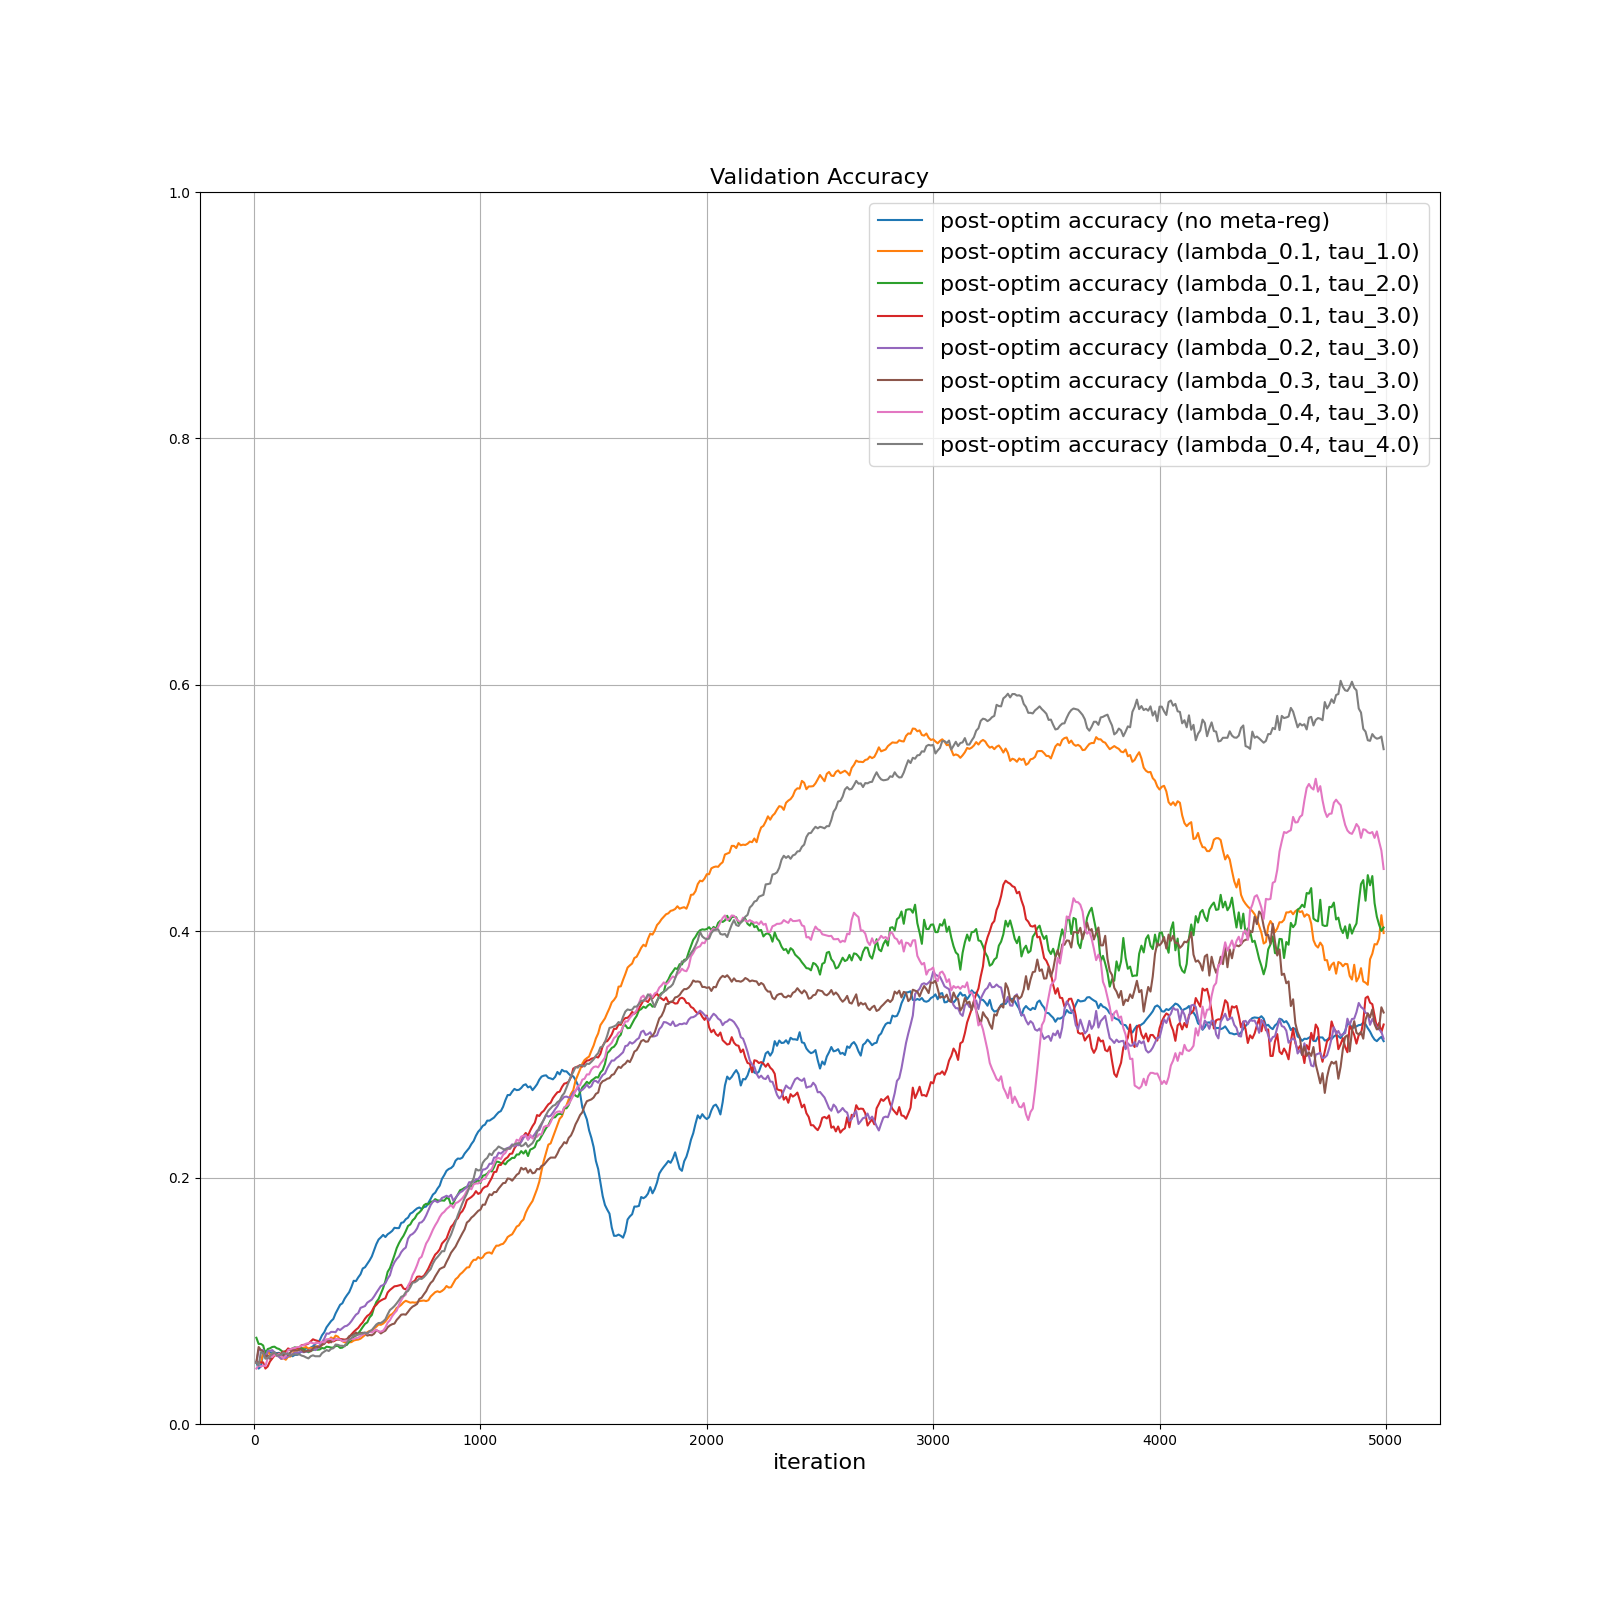
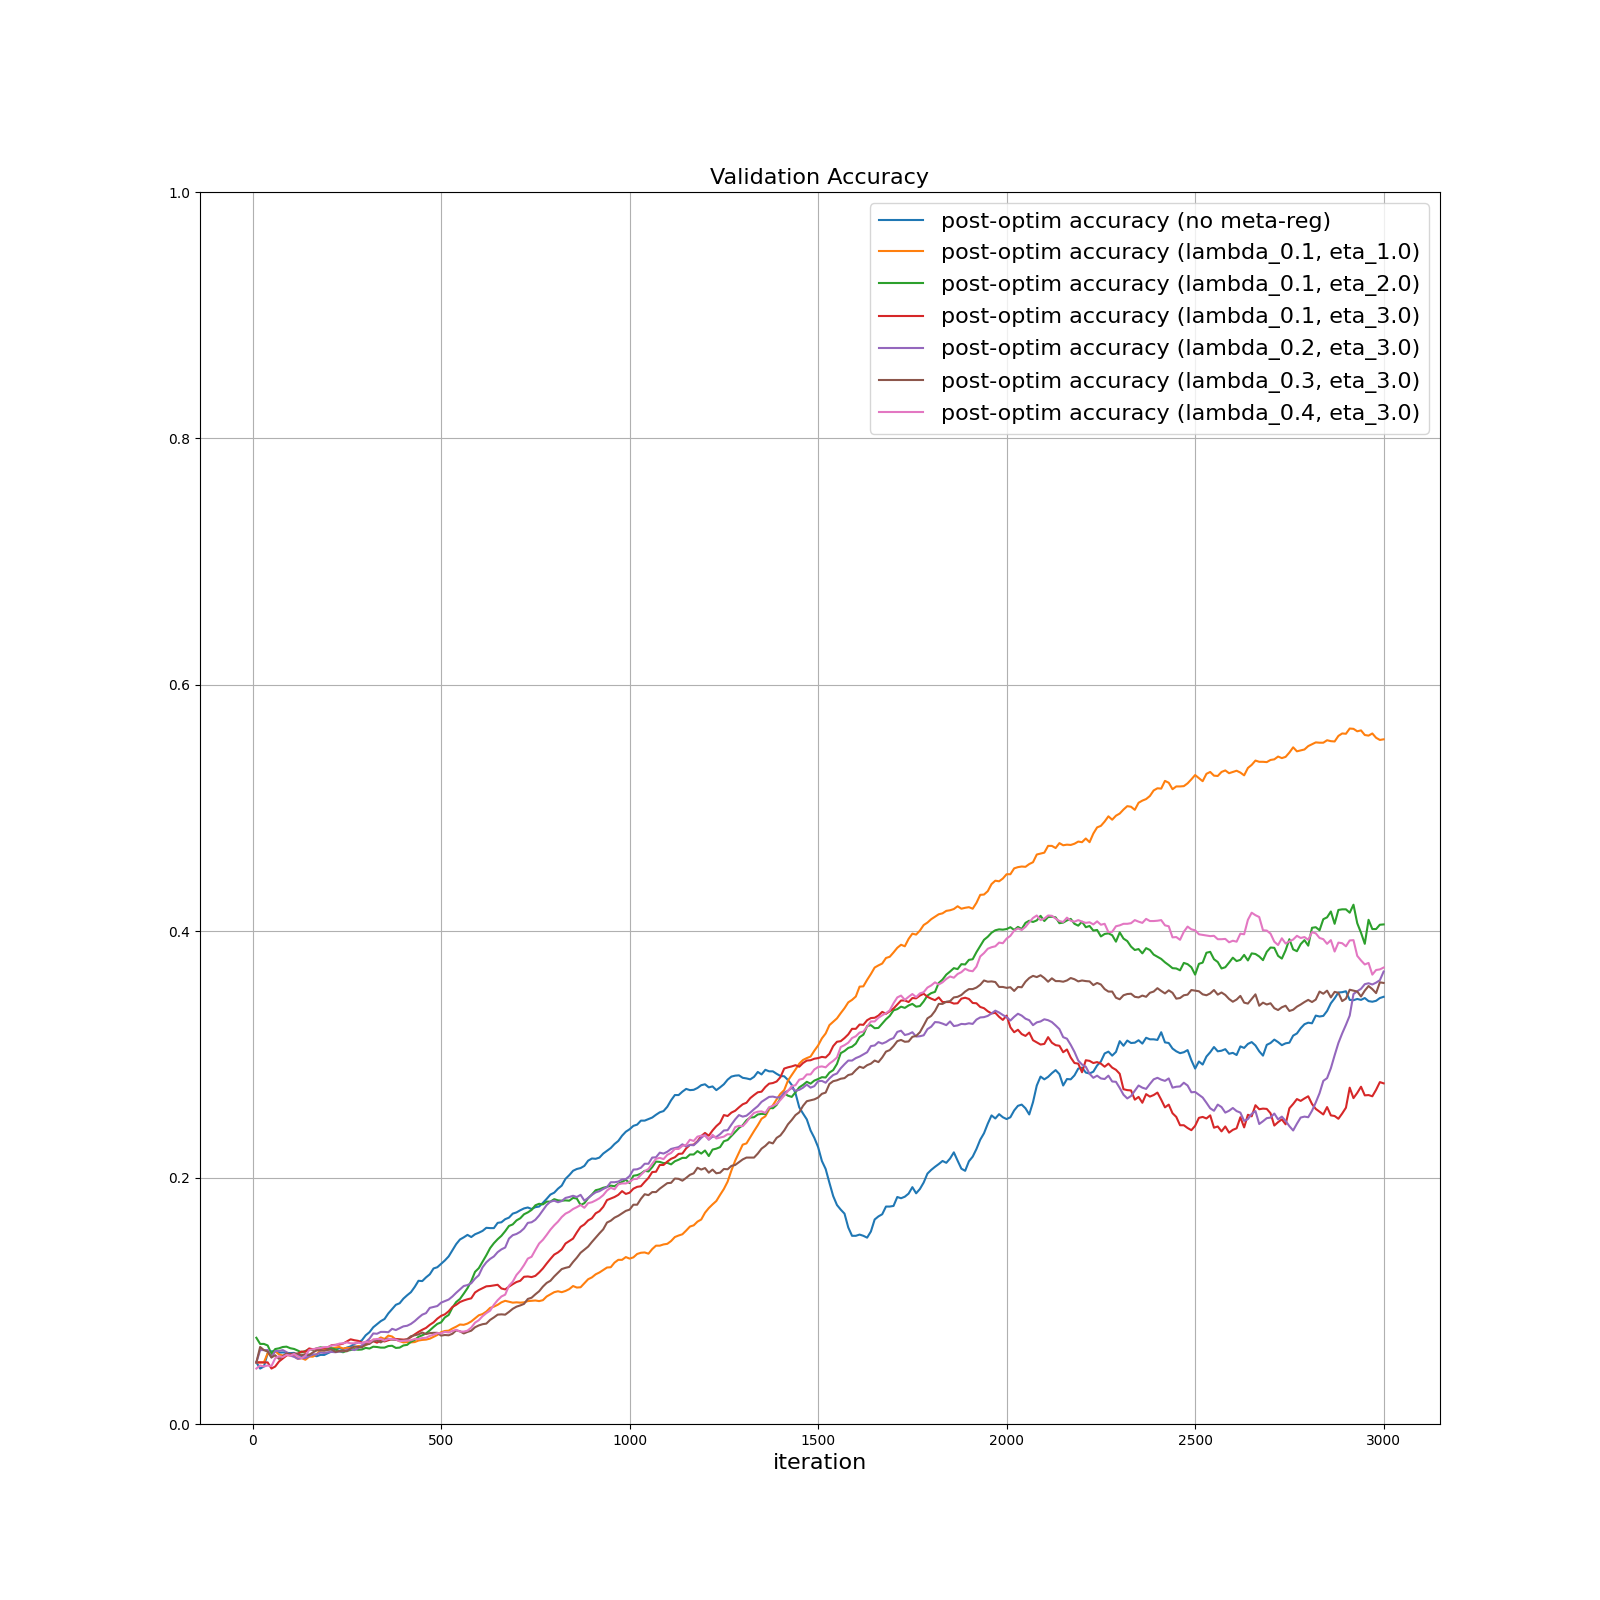
change tau to eta

diff --git a/src/plotComparisions.py b/src/plotComparisions.py
@@ -8,27 +8,25 @@ from src.utils import moving_average, parse_args
 if __name__ == '__main__':
 
     # number of iterations to plot
-    n_iterations = 5000
+    n_iterations = 3000
     dataset = 'omniglot'
     plotdir = 'plots'
     
-    csv_files = ['logs/cls_20.mbs_10.k_shot_1.inner_numstep_1.meta_lr_0.0025.inner_updatelr_0.04.learn_inner_update_lr_False.dataset_omniglot.mutual_exclusive_False.metareg_False.lambda_0.1.tau_1.0.csv',
-                 'logs/cls_20.mbs_10.k_shot_1.inner_numstep_1.meta_lr_0.0025.inner_updatelr_0.04.learn_inner_update_lr_False.dataset_omniglot.mutual_exclusive_False.metareg_True.lambda_0.1.tau_1.0.csv',
-                 'logs/cls_20.mbs_10.k_shot_1.inner_numstep_1.meta_lr_0.0025.inner_updatelr_0.04.learn_inner_update_lr_False.dataset_omniglot.mutual_exclusive_False.metareg_True.lambda_0.1.tau_2.0.csv',
-                 'logs/cls_20.mbs_10.k_shot_1.inner_numstep_1.meta_lr_0.0025.inner_updatelr_0.04.learn_inner_update_lr_False.dataset_omniglot.mutual_exclusive_False.metareg_True.lambda_0.1.tau_3.0.csv',
-                 'logs/cls_20.mbs_10.k_shot_1.inner_numstep_1.meta_lr_0.0025.inner_updatelr_0.04.learn_inner_update_lr_False.dataset_omniglot.mutual_exclusive_False.metareg_True.lambda_0.2.tau_3.0.csv',
-                 'logs/cls_20.mbs_10.k_shot_1.inner_numstep_1.meta_lr_0.0025.inner_updatelr_0.04.learn_inner_update_lr_False.dataset_omniglot.mutual_exclusive_False.metareg_True.lambda_0.3.tau_3.0.csv',
-                 'logs/cls_20.mbs_10.k_shot_1.inner_numstep_1.meta_lr_0.0025.inner_updatelr_0.04.learn_inner_update_lr_False.dataset_omniglot.mutual_exclusive_False.metareg_True.lambda_0.4.tau_3.0.csv',
-                 'logs/cls_20.mbs_10.k_shot_1.inner_numstep_1.meta_lr_0.0025.inner_updatelr_0.04.learn_inner_update_lr_False.dataset_omniglot.mutual_exclusive_False.metareg_True.lambda_0.4.tau_4.0.csv']
+    csv_files = ['logs/cls_20.mbs_10.k_shot_1.inner_numstep_1.meta_lr_0.0025.inner_updatelr_0.04.learn_inner_update_lr_False.dataset_omniglot.mutual_exclusive_False.metareg_False.lambda_0.1.eta_1.0.csv',
+                 'logs/cls_20.mbs_10.k_shot_1.inner_numstep_1.meta_lr_0.0025.inner_updatelr_0.04.learn_inner_update_lr_False.dataset_omniglot.mutual_exclusive_False.metareg_True.lambda_0.1.eta_1.0.csv',
+                 'logs/cls_20.mbs_10.k_shot_1.inner_numstep_1.meta_lr_0.0025.inner_updatelr_0.04.learn_inner_update_lr_False.dataset_omniglot.mutual_exclusive_False.metareg_True.lambda_0.1.eta_2.0.csv',
+                 'logs/cls_20.mbs_10.k_shot_1.inner_numstep_1.meta_lr_0.0025.inner_updatelr_0.04.learn_inner_update_lr_False.dataset_omniglot.mutual_exclusive_False.metareg_True.lambda_0.1.eta_3.0.csv',
+                 'logs/cls_20.mbs_10.k_shot_1.inner_numstep_1.meta_lr_0.0025.inner_updatelr_0.04.learn_inner_update_lr_False.dataset_omniglot.mutual_exclusive_False.metareg_True.lambda_0.2.eta_3.0.csv',
+                 'logs/cls_20.mbs_10.k_shot_1.inner_numstep_1.meta_lr_0.0025.inner_updatelr_0.04.learn_inner_update_lr_False.dataset_omniglot.mutual_exclusive_False.metareg_True.lambda_0.3.eta_3.0.csv',
+                 'logs/cls_20.mbs_10.k_shot_1.inner_numstep_1.meta_lr_0.0025.inner_updatelr_0.04.learn_inner_update_lr_False.dataset_omniglot.mutual_exclusive_False.metareg_True.lambda_0.4.eta_3.0.csv']
 
     legends = ['post-optim accuracy (no meta-reg)',
-               'post-optim accuracy (lambda_0.1, tau_1.0)',
-               'post-optim accuracy (lambda_0.1, tau_2.0)',
-               'post-optim accuracy (lambda_0.1, tau_3.0)',
-               'post-optim accuracy (lambda_0.2, tau_3.0)',
-               'post-optim accuracy (lambda_0.3, tau_3.0)',
-               'post-optim accuracy (lambda_0.4, tau_3.0)',
-               'post-optim accuracy (lambda_0.4, tau_4.0)']
+               'post-optim accuracy (lambda_0.1, eta_1.0)',
+               'post-optim accuracy (lambda_0.1, eta_2.0)',
+               'post-optim accuracy (lambda_0.1, eta_3.0)',
+               'post-optim accuracy (lambda_0.2, eta_3.0)',
+               'post-optim accuracy (lambda_0.3, eta_3.0)',
+               'post-optim accuracy (lambda_0.4, eta_3.0)']
 
     # plot filename
     os.system('mkdir -p {}'.format(plotdir))

diff --git a/src/utils.py b/src/utils.py
@@ -56,7 +56,7 @@ def parse_args():
                         help='whether or not to use meta-regularization')
     parser.add_argument('--metareg_lambda', type=float, default=0.1,
                         help='Lambda used for meta-regularization')
-    parser.add_argument('--metareg_tau', type=float, default=1.0,
+    parser.add_argument('--metareg_eta', type=float, default=1.0,
                         help='Tau used for meta-regularization')
 
     return parser.parse_args()
